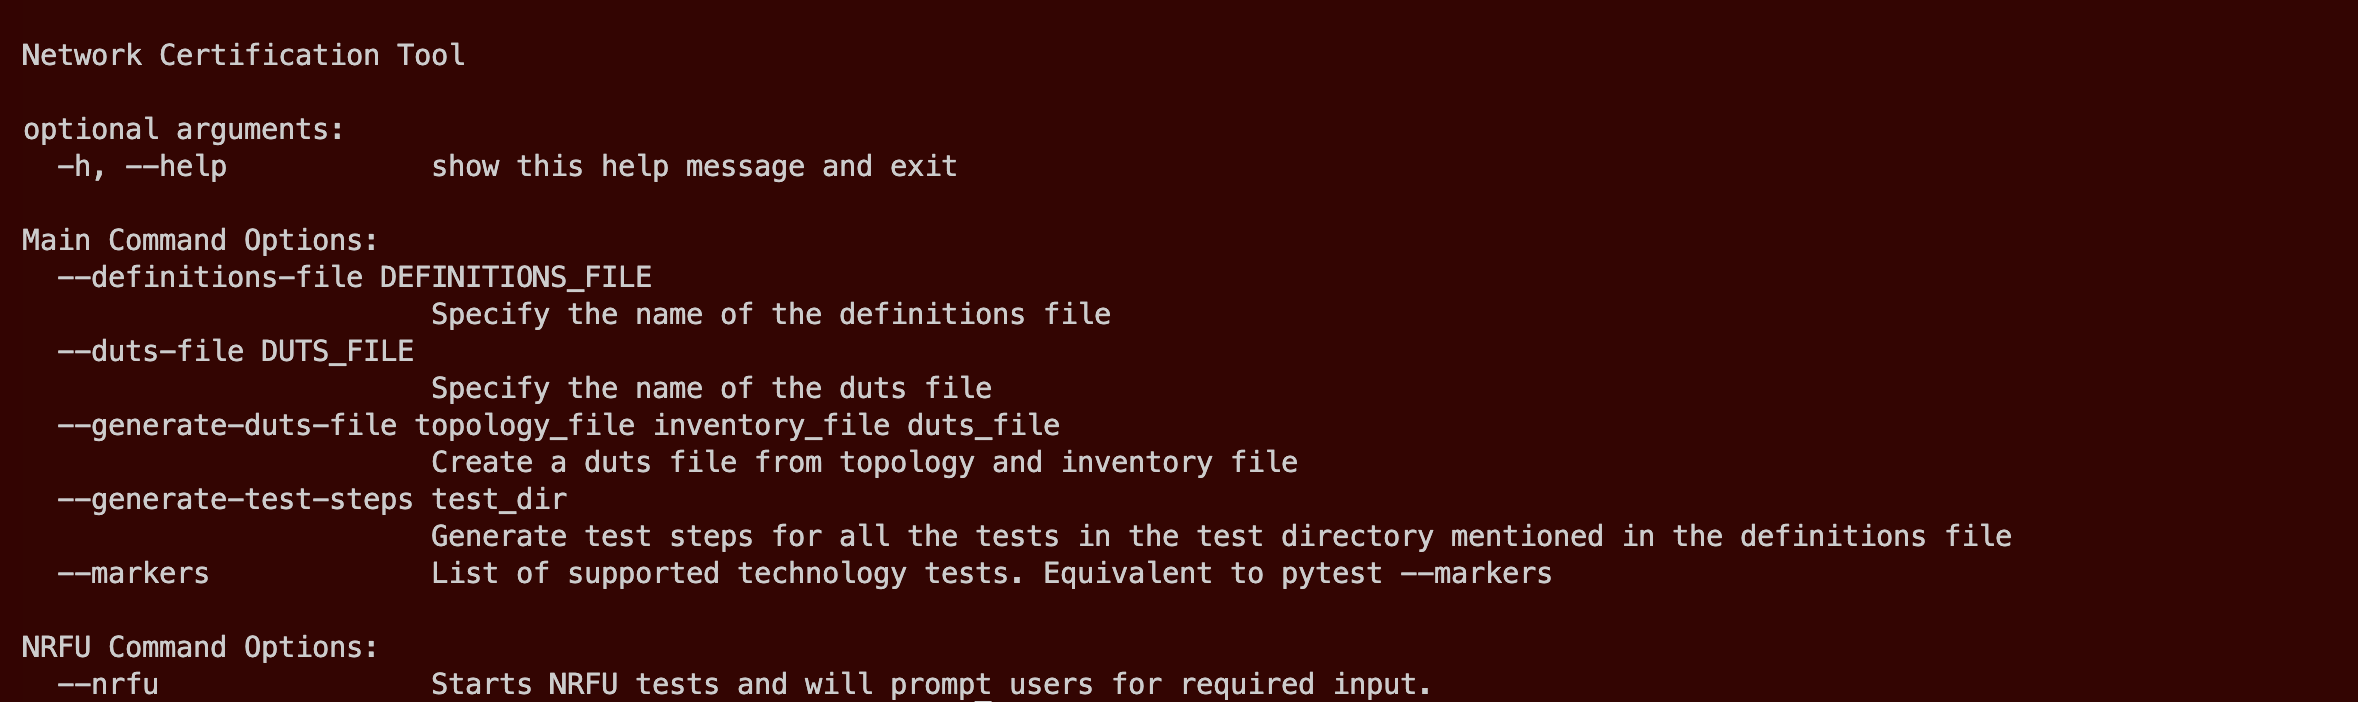
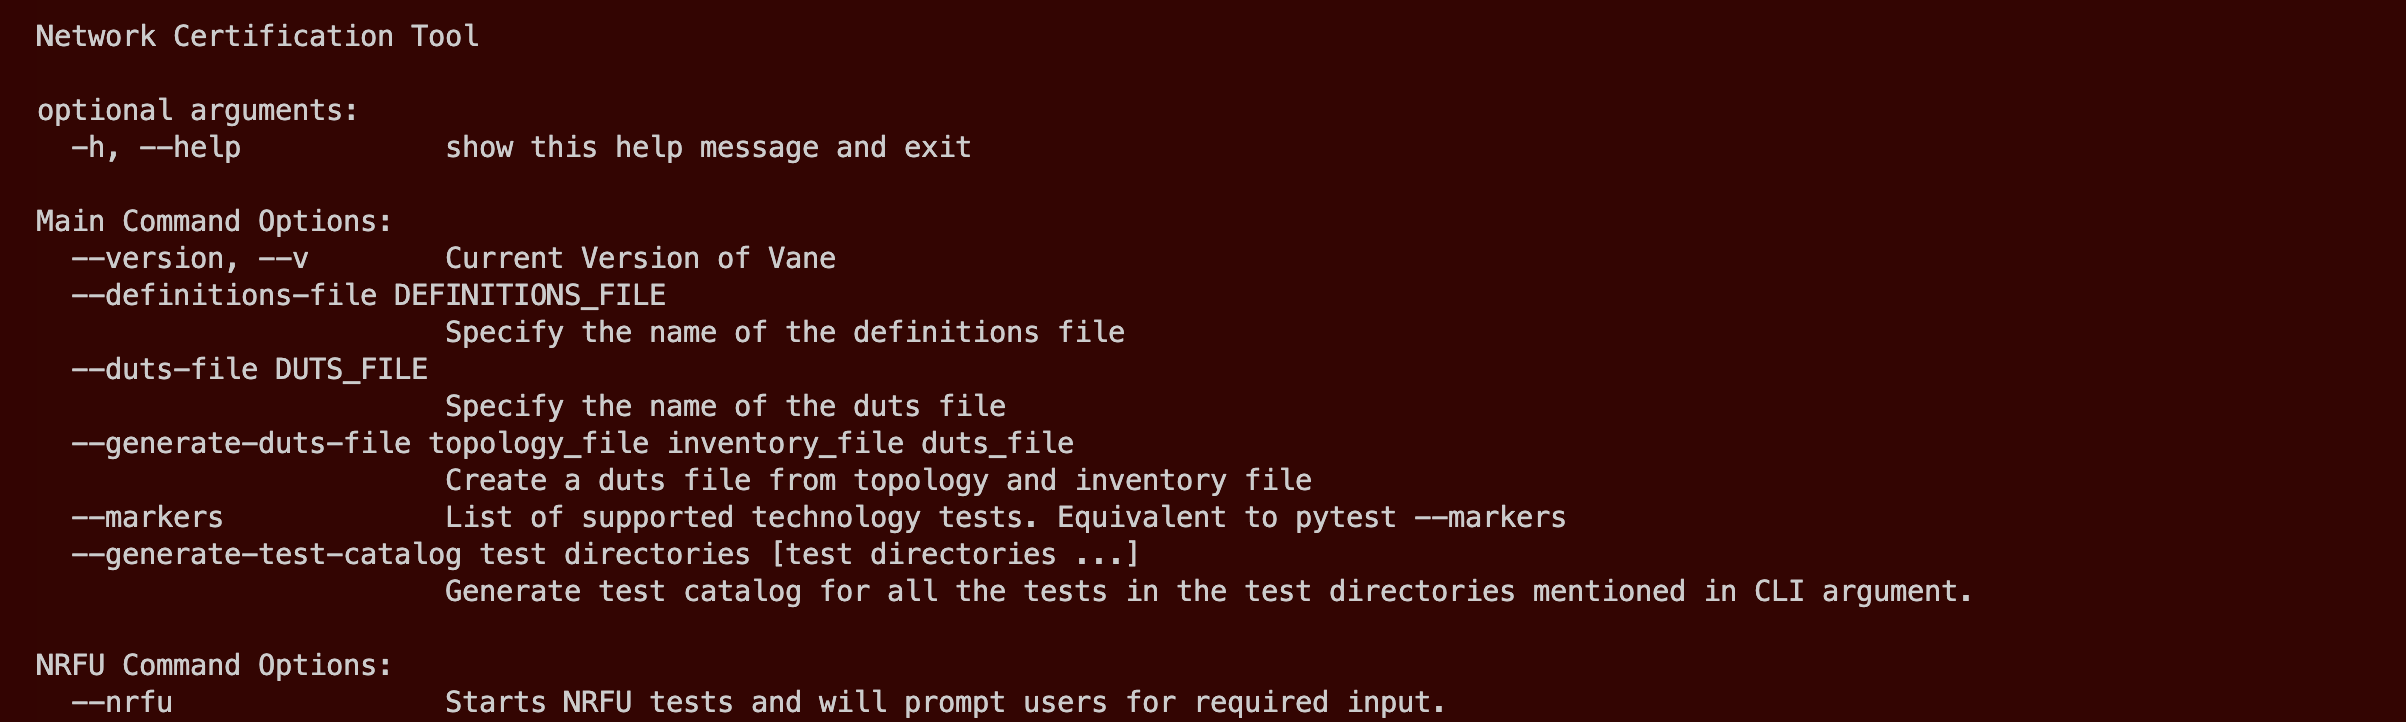
added documentation for generate-test-catalog

diff --git a/docs/api_cli/cli.md b/docs/api_cli/cli.md
@@ -107,43 +107,23 @@ all:
     vane –-generate-duts-file topology.yaml inventory.yaml duts_file
     ```
 
-## Using the -- generate-test-steps flag
+## Using the -- generate-test-catalog flag
 
-This flag can be used to generate the test steps of test cases
-within the provided test case directory.
+This flag can be used to generate a test catalog csv file for test directory/s passed
+as the argument
 
 ``` text
-vane --generate-test-steps path/to/test/case/directory
+vane --generate-test-catalog path/to/test/case/directory
 ```
 
-This will generate a markdown file and json file for each test case
-with detailed test steps (sourced from the test case file)
-that were executed by Vane while running
-the test cases in the test directory.
+This will generate a csv file that has details regarding the test suite, test case id, test case name,
+test case description and test case steps for each of the test case belonging to the passed
+in test directory. This csv file will be stamped with the time of generation and would be created within
+a folder called test catalog.
 
-!!! info "Test Steps"
-    === "Sample .md file"
-        ![Screenshot](../images/test_steps_md.png)
-
-    === "Sample .md file (preview)"
-        ![Screenshot](../images/test_steps_md_preview.png)
-
-    === "Sample .json file"
-        ``` json
-        {"sample_network_tests/dns/test_dns.py":
-        ["November 22, 2023 05:30:42PM",
-        "TD: Verify DNS is running by performing pings and verifying name resolution",
-        "TS: Collecting the urls from DUT", 
-        "TS: Running ping commands on the DUT",
-        "TS: Creating test report based on results",
-        "TD: Verifies DNS servers are reachable via ping",
-        "TS: Collecting the dns servers and dns vrfs for the test",
-        "TS: Running ping commands on the DUT",
-        "TS: Creating test report based on results",
-        "TD: Verifies DNS configuration matches the recommended practices",
-        "TS: Running show command `show running-config section name-server` on dut",
-        "TS: Creating test report based on results"]}
-        ```
+!!! info "Test Catalog"
+    === "Sample .csv file"
+        ![Screenshot](../images/test_catalog_csv.png)
 
 ## Using the -- markers flag
 
